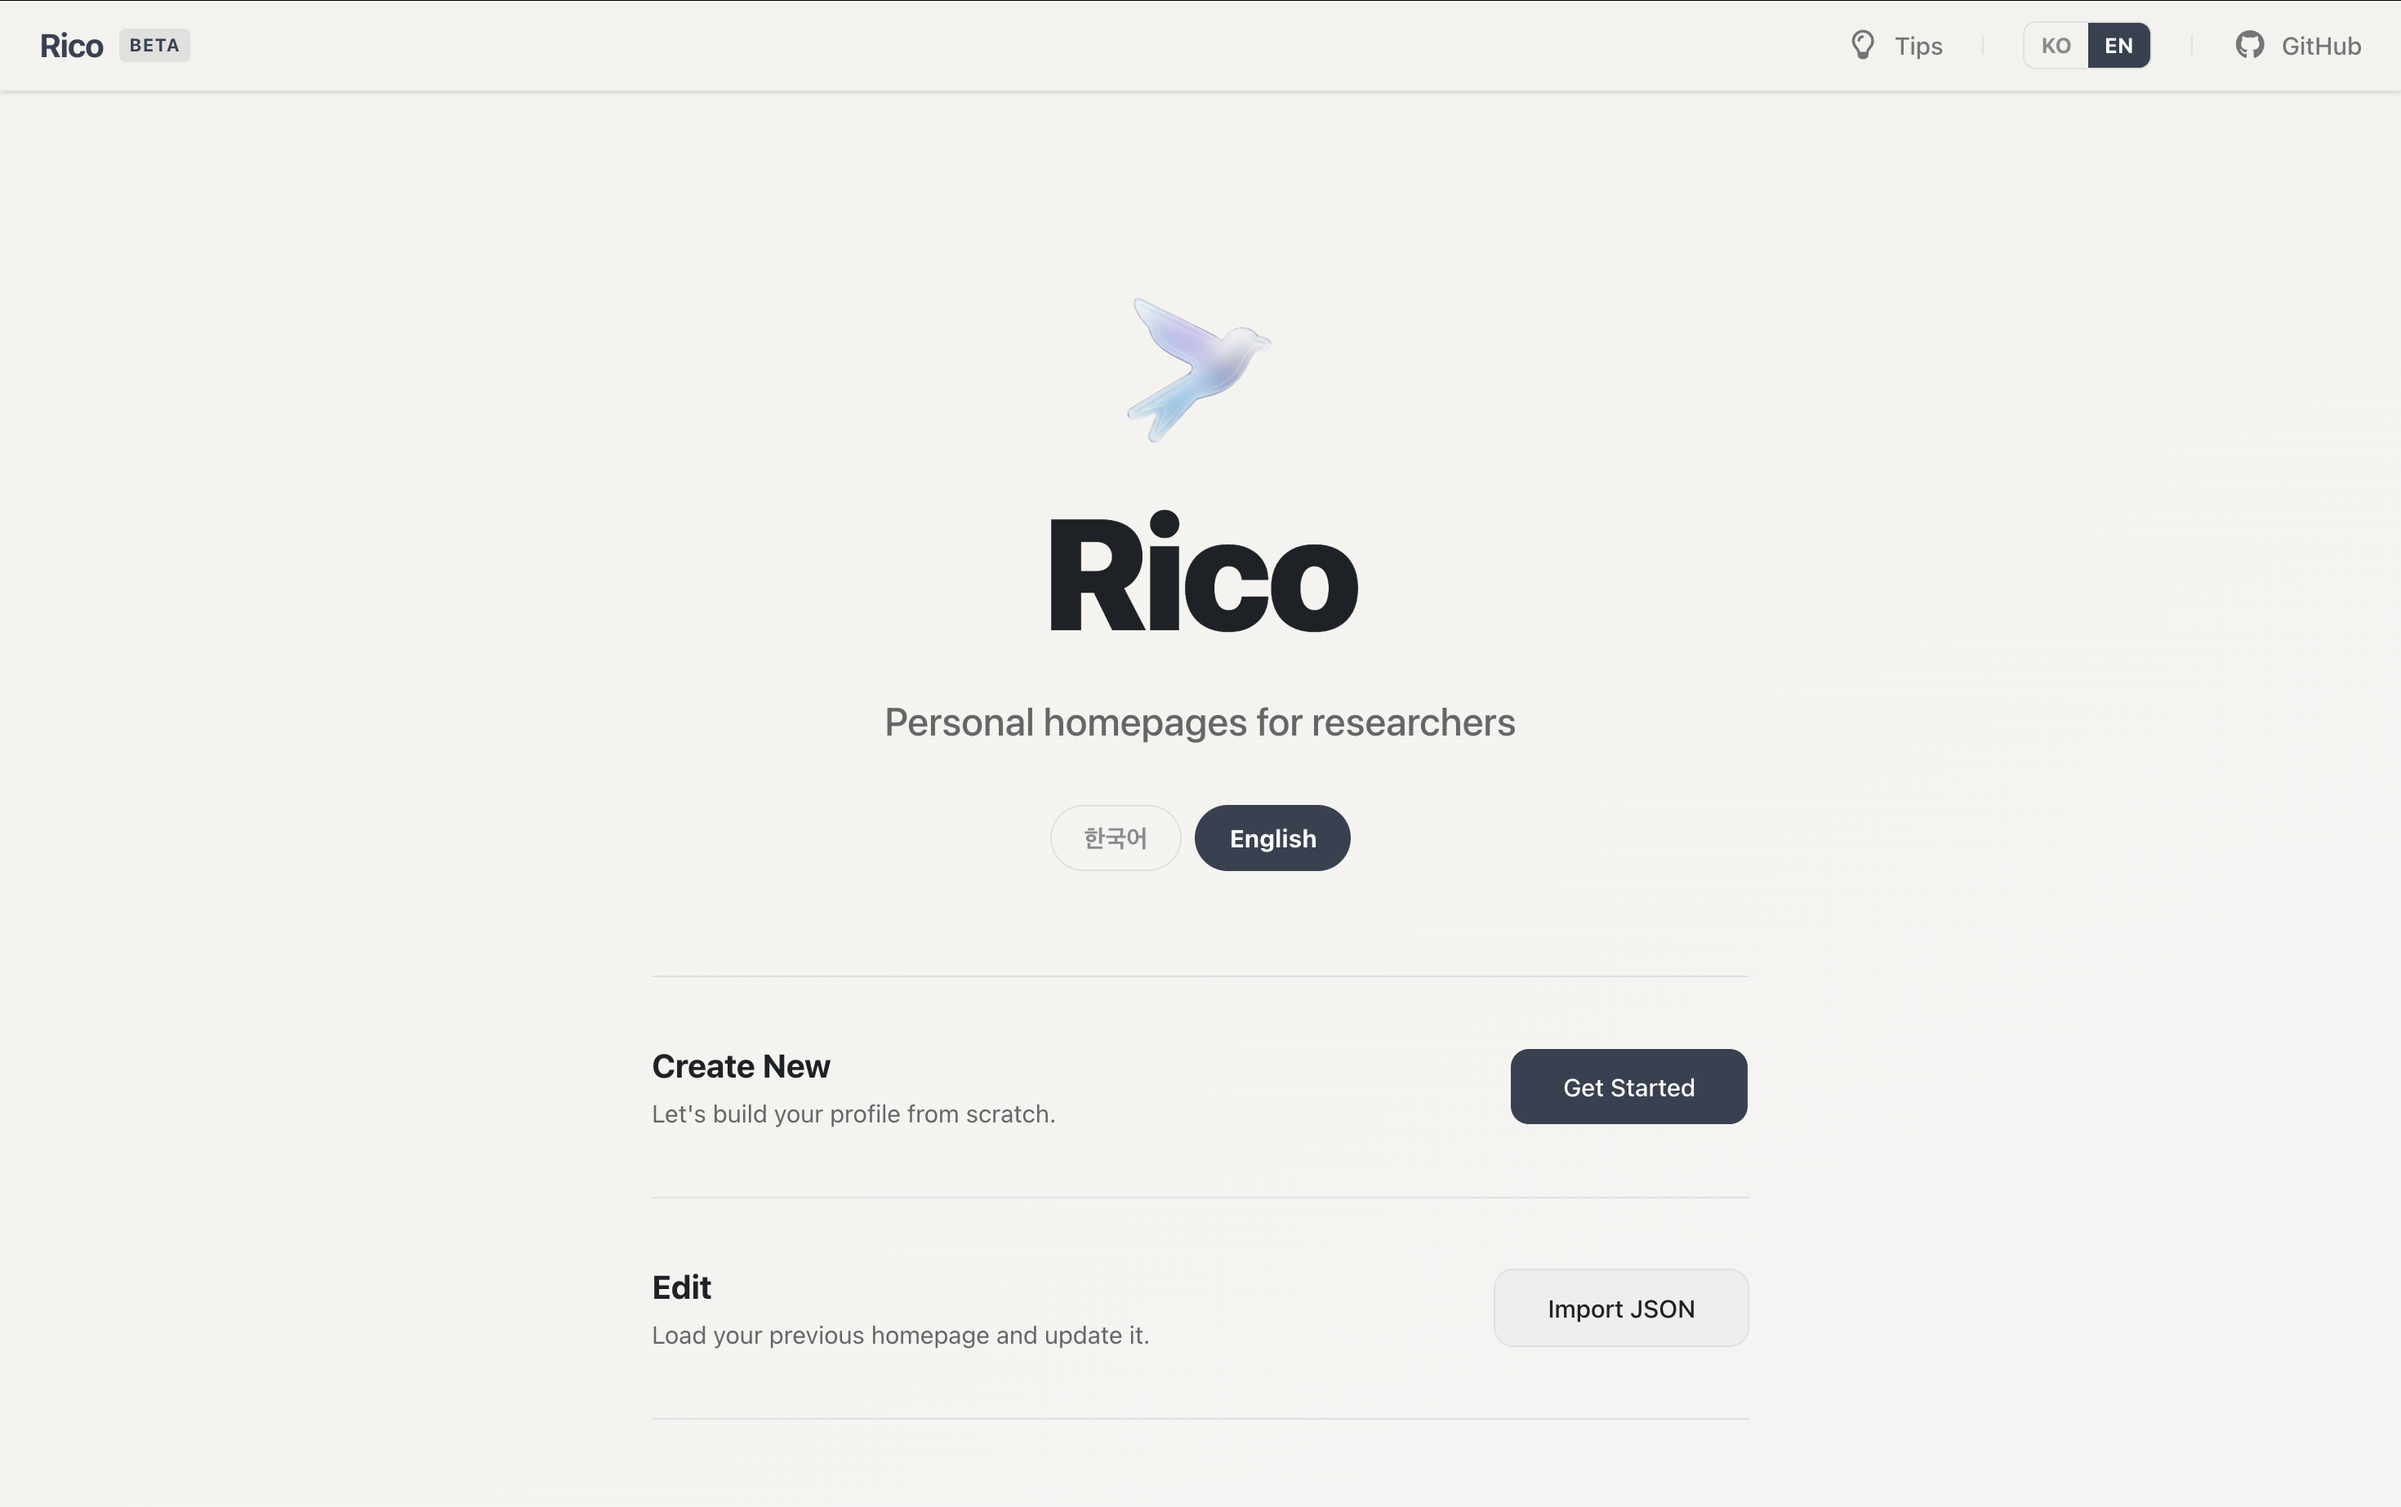
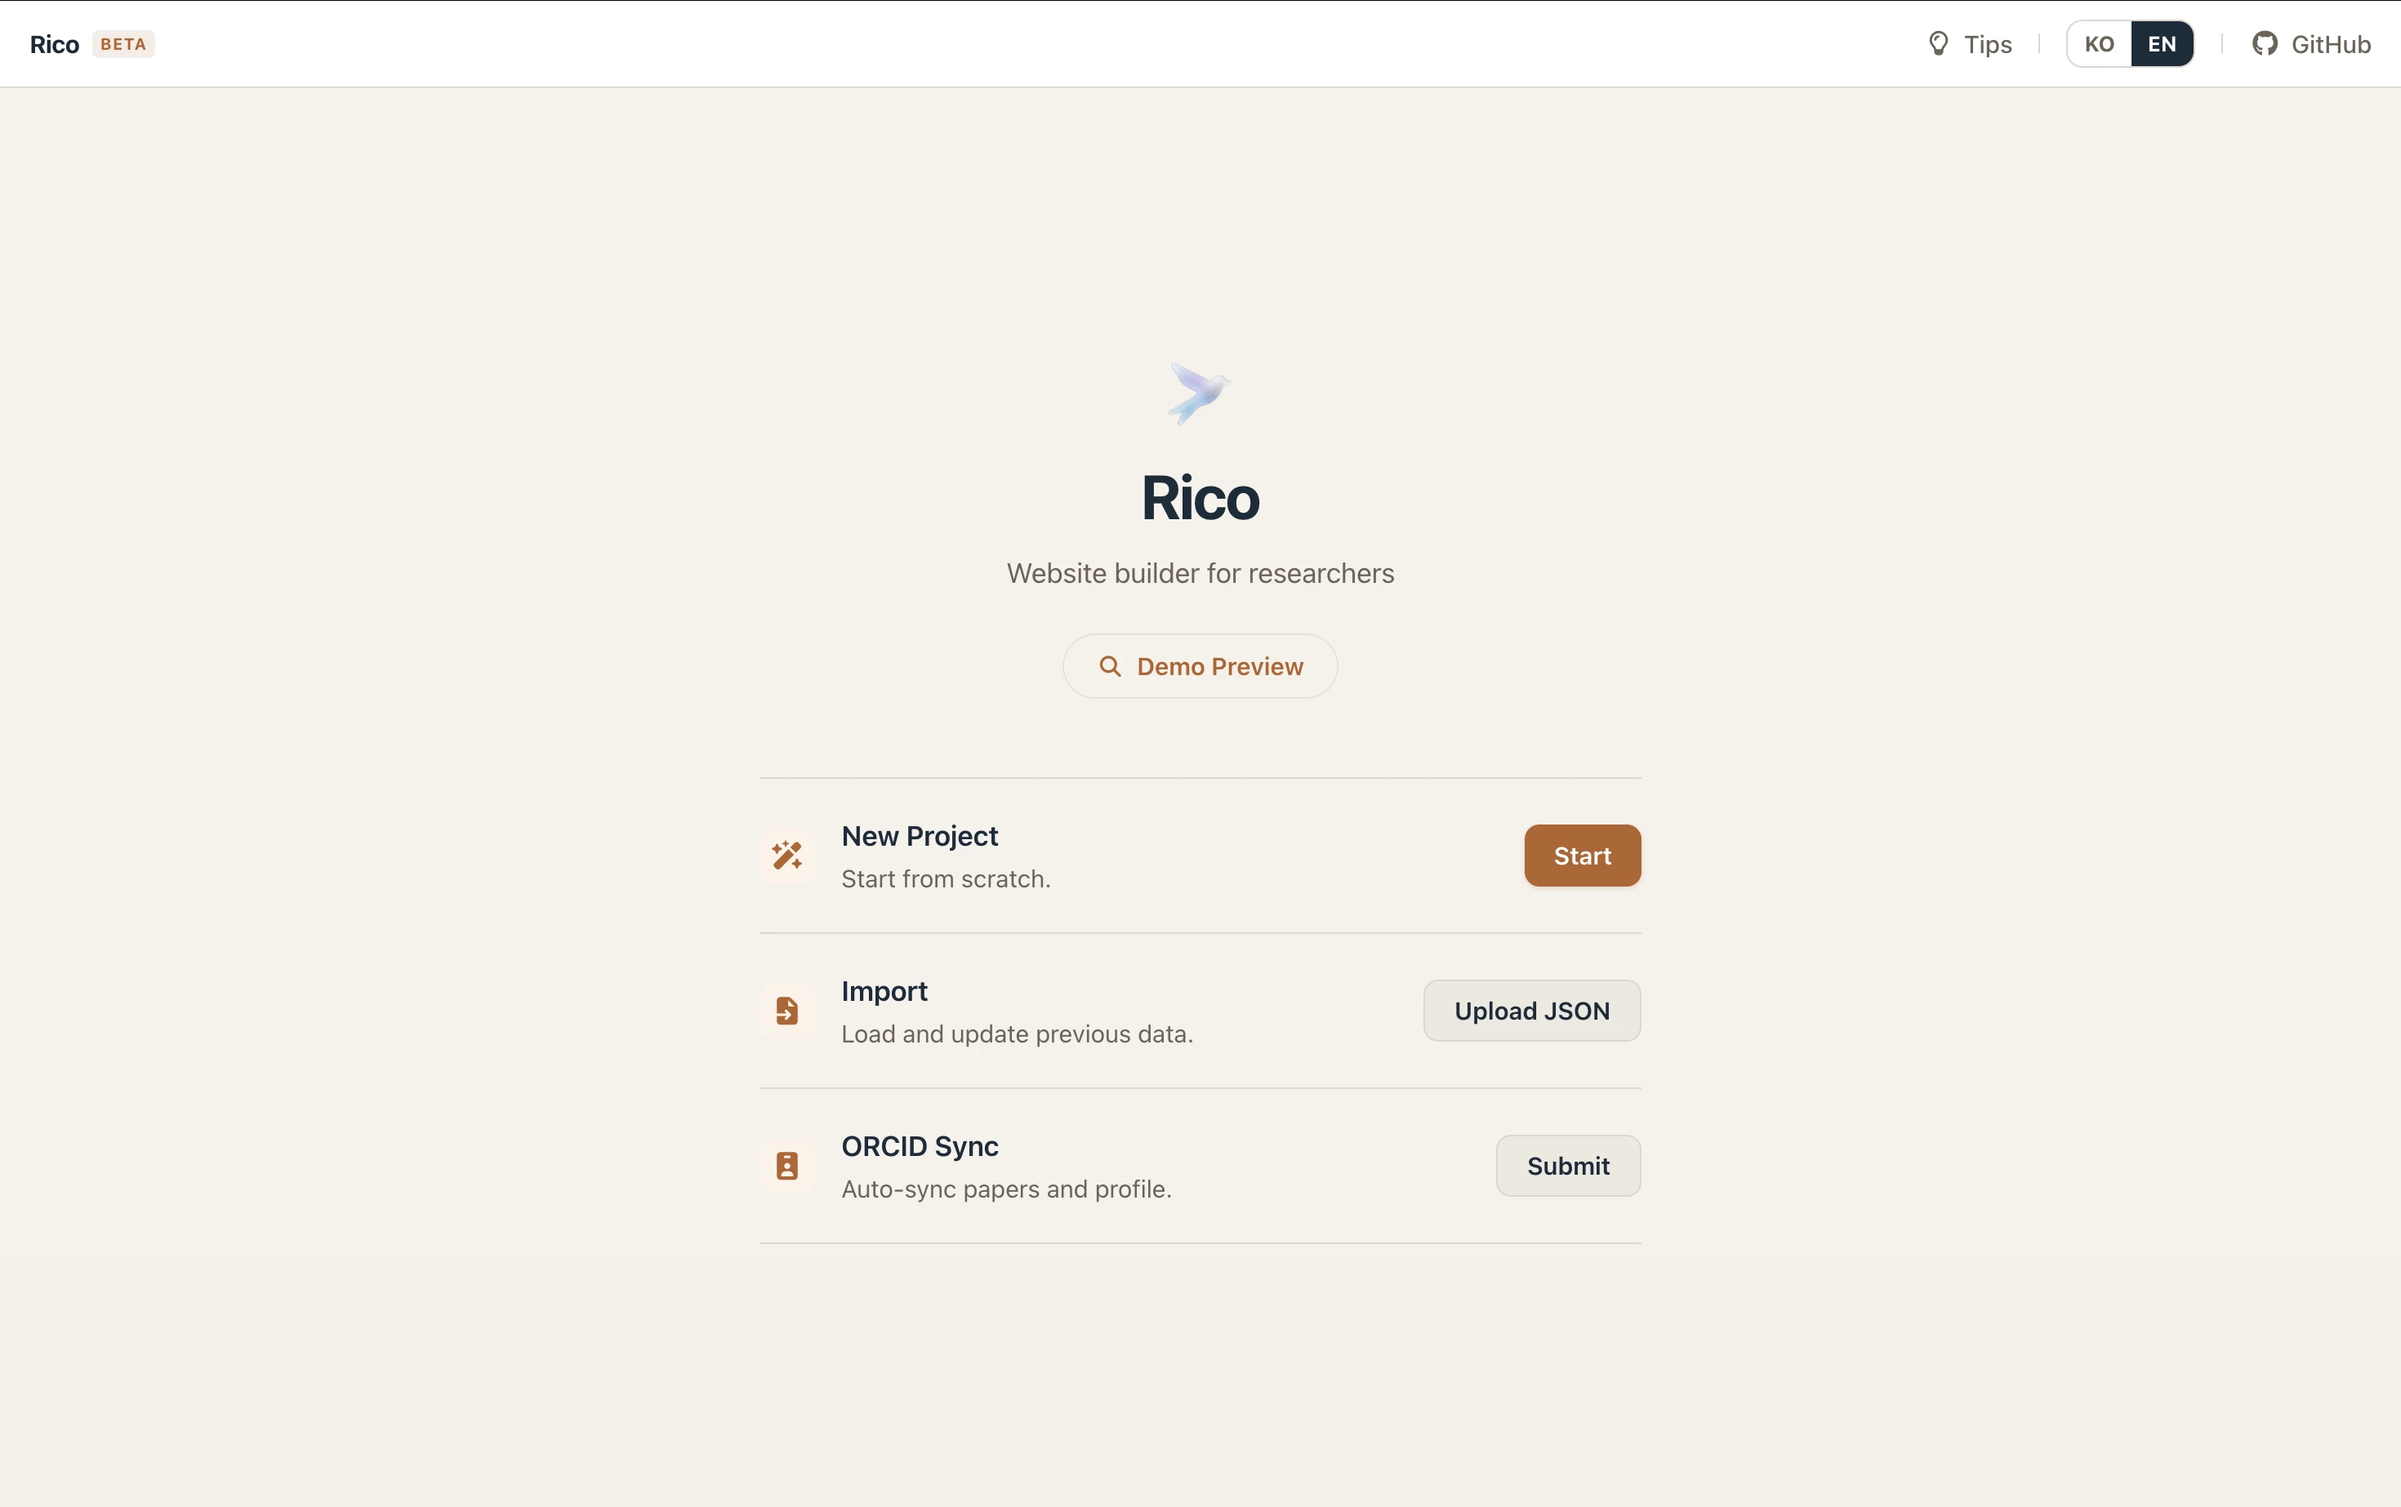
update: ui redesign and add live preview

diff --git a/README.md b/README.md
@@ -2,11 +2,11 @@
 
 # Rico — The Easiest Way for Researchers to Build a Homepage
 
-[Rico](https://rico-v1.vercel.app/) is a service that lets you **create your own professional homepage in 10 minutes — no coding or design skills needed**.
+[Rico](https://rico-v1.vercel.app/) is a service that lets you **create your own research homepage in 10 minutes — no coding or design skills needed**.
 
 > https://rico-v1.vercel.app
 
-![preview](/assets/demo-light-grey.webp)
+![preview](/assets/demo-en.webp)
 
 ## 🌟 Why Rico?
 
@@ -19,6 +19,7 @@ Rico is built exclusively for **researchers**, so you just fill in the fields th
 - **Researcher-tailored input forms** — Fields optimized for academic work, including publication lists, news, and project history.
 - **Load from ORCID** — Automatically import papers registered in your ORCID profile.
 - **One-click deploy** — With a GitHub account, your homepage goes live at `yourid.github.io` instantly.
+- **Live preview** — Preview your finished homepage before deploying.
 - **Direct file download** — No GitHub? No problem. Just download the finished files directly.
 - **Free forever & easy to update** — No server costs, and you can reload your saved data to make changes anytime.
 - **4 themes** — Pick your favorite color from 4 available themes.
